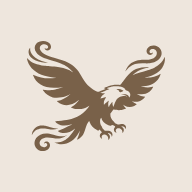
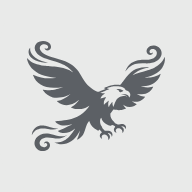
Turn Ventus to a cool stone grey
Ursus will use warm browns, so Ventus moves off them.

- Flint is now hue 212 x 0.15 on the Mac and in every web themes.js
  (same id, so saved choices still work); the menu-bar eagle follows
- Ventus web: cool grey palette, theme colour #EBECED, eagle icon
  recoloured to #5C6065 on #E9EAE9 (svg, 192 and 512 png), cache v5
- Docs follow

Claude-Session: https://claude.ai/code/session_01GrymvZLJKdsSzcmLooTotW

Changed region(s): [[0.125, 0.2188, 0.875, 0.7812]]

diff --git a/web/ventus/style.css b/web/ventus/style.css
@@ -1,12 +1,12 @@
 :root {
-  --backdrop: #f1ece7;
-  --card: #f9f5f1;
-  --line: #d8d0c7;
-  --ink: #312820;
-  --muted: #63594f;
-  --faint: #a89e94;
-  --accent: #846547;
-  --accent-soft: #e2d6cb;
+  --backdrop: #ebeced;
+  --card: #f5f6f7;
+  --line: #ced0d2;
+  --ink: #27292b;
+  --muted: #57595c;
+  --faint: #9c9ea0;
+  --accent: #5c6065;
+  --accent-soft: #dcdee1;
   --on-accent: #ffffff;
   --rest: #6f97b3;
   --radius: 20px;
@@ -25,10 +25,10 @@ body[data-mood="rest"] {
 }
 
 body[data-mood="hot"] {
-  --backdrop: #e7d5c4;
-  --card: #efe4d9;
-  --line: #d3c0ac;
-  --muted: #503e2c;
+  --backdrop: #d9dcdf;
+  --card: #e6e8ea;
+  --line: #c2c6ca;
+  --muted: #45494e;
 }
 
 * {
@@ -242,7 +242,7 @@ small {
 .kicker.hot {
   font-size: 15px;
   letter-spacing: 2px;
-  color: #6c5237;
+  color: #4b5158;
 }
 
 body[data-mood="rest"] .kicker {
@@ -736,7 +736,7 @@ body[data-mood="hot"] .round.big {
   height: 34px;
   border-radius: 10px;
   background: var(--card);
-  color: #6c5237;
+  color: #4b5158;
   font-size: 13px;
   font-weight: 650;
   display: flex;

diff --git a/Sources/Pocket/BoardTheme.swift b/Sources/Pocket/BoardTheme.swift
@@ -100,7 +100,7 @@ struct BoardTheme: Identifiable, Equatable {
         pastel("blush", "Blush", hue: 328, saturation: 0.9),
         pastel("stone", "Stone", hue: 32, saturation: 0.28),
         pastel("ember", "Ember", hue: 354, saturation: 1.55),
-        pastel("flint", "Flint", hue: 30, saturation: 0.62),
+        pastel("flint", "Flint", hue: 212, saturation: 0.15),
         dusk("moonlit-sage", "Moonlit Sage", ground: 160, glow: 140),
         dusk("harbour", "Harbour", ground: 218, glow: 24),
         dusk("aurora", "Aurora", ground: 268, glow: 158),

diff --git a/web/ventus/index.html b/web/ventus/index.html
@@ -3,7 +3,7 @@
 <head>
 <meta charset="utf-8">
 <meta name="viewport" content="width=device-width, initial-scale=1, viewport-fit=cover">
-<meta name="theme-color" content="#F1ECE7">
+<meta name="theme-color" content="#EBECED">
 <meta name="apple-mobile-web-app-capable" content="yes">
 <meta name="apple-mobile-web-app-status-bar-style" content="default">
 <meta name="apple-mobile-web-app-title" content="Ventus">

diff --git a/web/aqua/themes.js b/web/aqua/themes.js
@@ -62,7 +62,7 @@ export const THEMES = [
   pastel("blush", "Blush", 328, 0.9),
   pastel("stone", "Stone", 32, 0.28),
   pastel("ember", "Ember", 354, 1.55),
-  pastel("flint", "Flint", 30, 0.62),
+  pastel("flint", "Flint", 212, 0.15),
   dusk("moonlit-sage", "Moonlit Sage", 160, 140),
   dusk("harbour", "Harbour", 218, 24),
   dusk("aurora", "Aurora", 268, 158),

diff --git a/web/ignis/themes.js b/web/ignis/themes.js
@@ -62,7 +62,7 @@ export const THEMES = [
   pastel("blush", "Blush", 328, 0.9),
   pastel("stone", "Stone", 32, 0.28),
   pastel("ember", "Ember", 354, 1.55),
-  pastel("flint", "Flint", 30, 0.62),
+  pastel("flint", "Flint", 212, 0.15),
   dusk("moonlit-sage", "Moonlit Sage", 160, 140),
   dusk("harbour", "Harbour", 218, 24),
   dusk("aurora", "Aurora", 268, 158),

diff --git a/web/themes.js b/web/themes.js
@@ -62,7 +62,7 @@ export const THEMES = [
   pastel("blush", "Blush", 328, 0.9),
   pastel("stone", "Stone", 32, 0.28),
   pastel("ember", "Ember", 354, 1.55),
-  pastel("flint", "Flint", 30, 0.62),
+  pastel("flint", "Flint", 212, 0.15),
   dusk("moonlit-sage", "Moonlit Sage", 160, 140),
   dusk("harbour", "Harbour", 218, 24),
   dusk("aurora", "Aurora", 268, 158),

diff --git a/web/ventus/sw.js b/web/ventus/sw.js
@@ -1,4 +1,4 @@
-const CACHE = "runner-v4";
+const CACHE = "runner-v5";
 const SHELL = ["./", "index.html", "style.css", "app.js", "store.js", "plan.js", "routines.js", "util.js", "manifest.webmanifest", "icon.svg", "icon-192.png", "icon-512.png"];
 
 self.addEventListener("install", (e) => {

diff --git a/docs/kb/web-pages.md b/docs/kb/web-pages.md
@@ -16,7 +16,7 @@ Related: [cloud-sync.md](cloud-sync.md) (the table, sync rules, setup link, dev 
 | Shows | The Hair routine only | Every Aqua routine | Ignis focus sessions | Today's timed routines, one step at a time, and the journal | Calories eaten and burned against the day, week and month goals |
 | Writes | Never | Step check-offs, night start hour, its theme | Never | Step check-offs and `runner.entry` journal entries | `calorie.entry`, `calorie.weight` and the plan (`calorie.settings`) |
 | Default theme | Sage, from the synced `settings.prefs`/`prefs` record | Sky, synced as `settings.prefs`/`orario` (field `aquaTheme`; the old `theme` field, Butter by default, is ignored) | Ember, kept per device in `localStorage` (`ignis.web.theme`) | Flint, fixed | Sage, fixed |
-| Icon | Shared Pocket icon | Koi whose fins flow into ripples, blue on pale blue | Lion whose mane turns to flame, red on pale red | Eagle dissolving into wind, stone on pale stone | Mantis built from leaves, green on pale green |
+| Icon | Shared Pocket icon | Koi whose fins flow into ripples, blue on pale blue | Lion whose mane turns to flame, red on pale red | Eagle dissolving into wind, cool grey on pale cool grey | Mantis built from leaves, green on pale green |
 | Title and Home Screen name | Routine | Aqua | Ignis | Ventus | Terra |
 | Local state key | `pocket.cloud.v1` | `orario.cloud.v1` | `aurelius.cloud.v1` | `runner.cloud.v1` | `misura.cloud.v1` |
 | Cache prefix (`sw.js`) | `pocket-` (`pocket-v10`) | `aqua-web-` (`aqua-web-v2`, also clears `orario-master-`) | `ignis-web-` (`ignis-web-v2`, also clears `aurelius-web-`) | `runner-` (`runner-v4`) | `terra-web-` (`terra-web-v3`, also clears `misura-`) |

diff --git a/docs/kb/handoff.md b/docs/kb/handoff.md
@@ -25,7 +25,7 @@ Everything is now on `main`. The embroidery work still needs committing on its o
 - Built on 2026-11-19 from the "Weekly Hair Routine" artifact. It starts on 19 Nov 2026 with the hair-care routine seeded. Full detail is in [apps/schedule.md](apps/schedule.md).
 - ⌥O was moved from Outlook to Schedule by a one-time `claimsHotKey` migration.
 - On 2026-11-19 Ignis, Ventus, Aqua and Terra moved to ⌥1, ⌥2, ⌥3 and ⌥4. `Layout.elementKeys` gives them those keys once (UserDefaults flag `shortcuts.elements`), taking each key from any other app that held it and freeing ⌥P, ⌥K, ⌥O and ⌥E. The second run (flag `shortcuts.elements.2`) also gives Preparo ⌥9.
-- All four element apps use one look (2026-11-19): SF Rounded on the Mac and Nunito on the web, the app name at 17 pt bold top left of each menu-bar dropdown with the date at 12 pt (not in the expanded windows), and web headers at 30 px / 800 with a 44 px logo. Ignis is Ember and Ventus Flint, to match Sky and Sage in strength.
+- All four element apps use one look (2026-11-19): SF Rounded on the Mac and Nunito on the web, the app name at 17 pt bold top left of each menu-bar dropdown with the date at 12 pt (not in the expanded windows), and web headers at 30 px / 800 with a 44 px logo. Ignis is Ember and Ventus Flint, to match Sky and Sage in strength. Flint became a cool stone grey on 2026-11-20 so warm browns stay free for Ursus.
 - The board window and the editor were verified only from offscreen renders, never clicked live. Computer use could not reach the Pocket window.
 - Open polish items the user may raise:
   - The "This week" toggle label stays the same when paging to another week.

diff --git a/docs/kb/theme.md b/docs/kb/theme.md
@@ -52,7 +52,7 @@ Derived members:
 
 ## Theme list (`BoardTheme.all`, in picker order)
 
-Light, from `pastel(id, name, hue:, saturation:)`: `sage` (default), `rose`, `butter`, `apricot`, `sky`, `lavender`, `blush`, `stone`, `ember` (hue 354 × 1.55, Ignis's default), `flint` (hue 30 × 0.62, Ventus's default).
+Light, from `pastel(id, name, hue:, saturation:)`: `sage` (default), `rose`, `butter`, `apricot`, `sky`, `lavender`, `blush`, `stone`, `ember` (hue 354 × 1.55, Ignis's default), `flint` (hue 212 × 0.15, a cool stone grey, Ventus's default).
 
 Dark, from `dusk(id, name, ground:, glow:, depth:)`: a deep background tinted with the `ground` hue and pastel text, accents and project tints from the `glow` hue.
 
